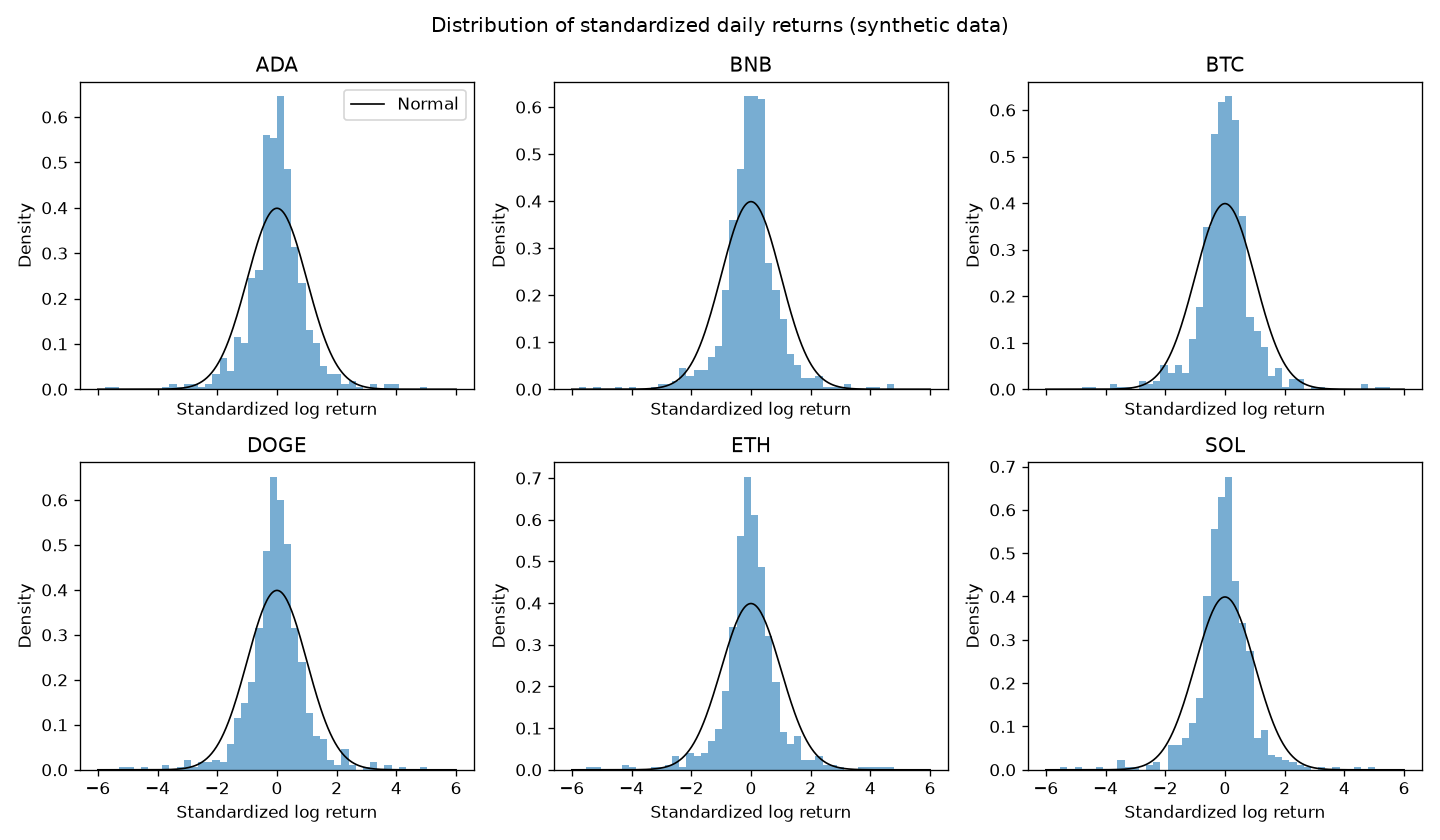
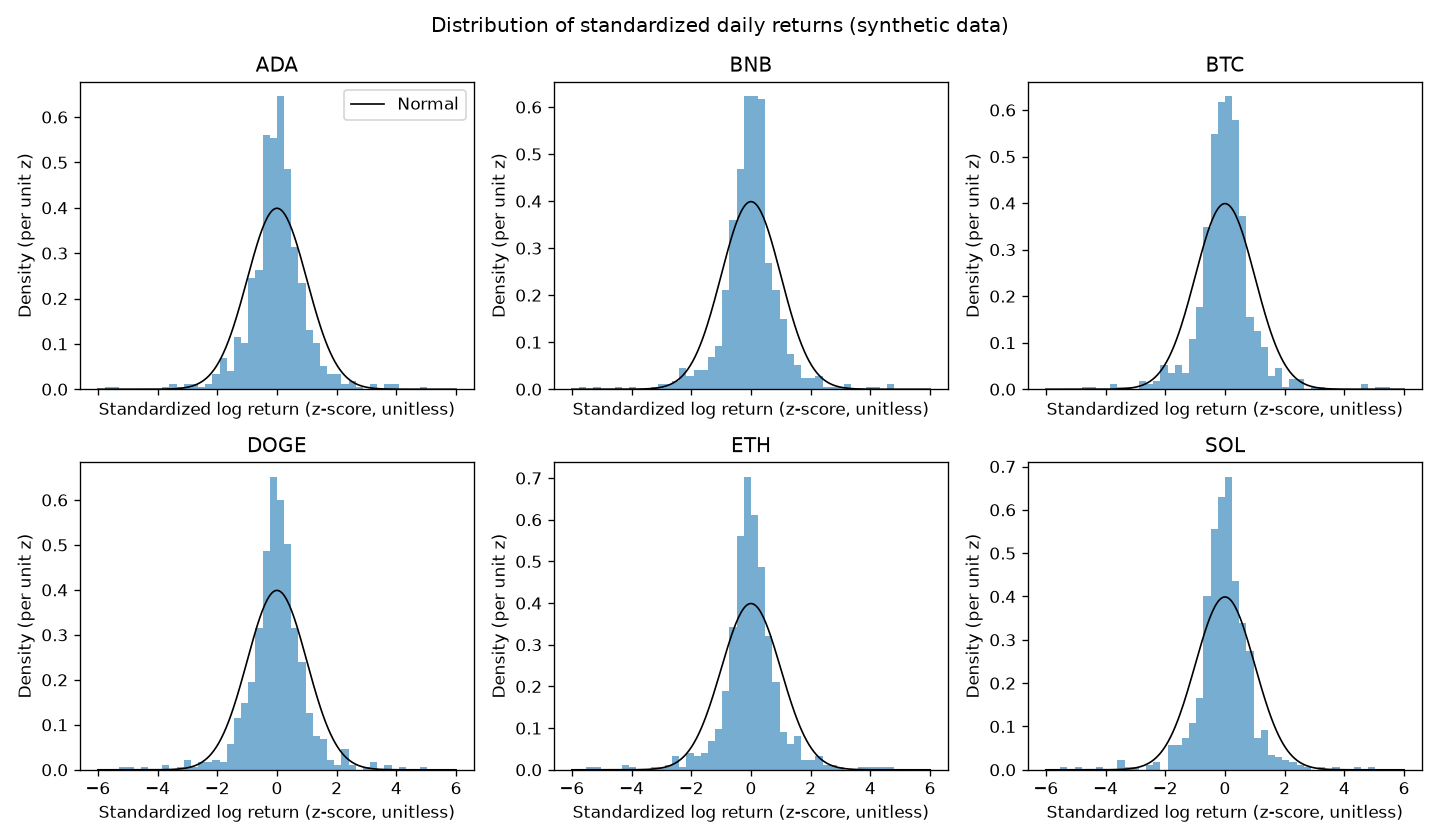
crypto-volatility-analysis: Improve EDA chart titles, units and axis labels

diff --git a/crypto-volatility-analysis/src/eda.py b/crypto-volatility-analysis/src/eda.py
@@ -19,6 +19,7 @@ import matplotlib.pyplot as plt
 import numpy as np
 import pandas as pd
 import seaborn as sns
+from matplotlib.ticker import PercentFormatter
 from scipy import stats
 
 PROJECT_DIR = Path(__file__).resolve().parents[1]
@@ -133,9 +134,10 @@ def plot_normalized_prices(prices: pd.DataFrame) -> None:
     fig, ax = plt.subplots(figsize=(10, 5))
     rebased.plot(ax=ax)
     ax.set_yscale("log")
+    ax.grid(True, which="major", alpha=0.3)
     ax.set_title("Simulated prices rebased to 100 (log scale, synthetic data)")
     ax.set_xlabel("Date")
-    ax.set_ylabel("Rebased price (first day = 100)")
+    ax.set_ylabel("Rebased price index (first day = 100, log scale)")
     ax.legend(title="Asset")
     fig.tight_layout()
     fig.savefig(FIGURES_DIR / "prices_rebased.png", dpi=120)
@@ -153,8 +155,8 @@ def plot_return_distributions(prices: pd.DataFrame) -> None:
         ax.plot(grid, stats.norm.pdf(grid), color="black", lw=1,
                 label="Normal")
         ax.set_title(asset)
-        ax.set_xlabel("Standardized log return")
-        ax.set_ylabel("Density")
+        ax.set_xlabel("Standardized log return (z-score, unitless)")
+        ax.set_ylabel("Density (per unit z)")
     axes[0, 0].legend()
     fig.suptitle("Distribution of standardized daily returns (synthetic data)")
     fig.tight_layout()
@@ -167,7 +169,7 @@ def plot_rolling_volatility(prices: pd.DataFrame, regimes: pd.DataFrame) -> None
     wide = prices.pivot(index="date", columns="asset", values="log_return")
     rolling = wide.rolling(ROLLING_WINDOW).std() * np.sqrt(DAYS_PER_YEAR)
 
-    fig, ax = plt.subplots(figsize=(10, 5))
+    fig, ax = plt.subplots(figsize=(10, 5.5))
     rolling.plot(ax=ax)
 
     # Shade turbulent days (one-day-wide spans, merged visually)
@@ -175,10 +177,14 @@ def plot_rolling_volatility(prices: pd.DataFrame, regimes: pd.DataFrame) -> None
     for d in turbulent:
         ax.axvspan(d, d + pd.Timedelta(days=1), color="red", alpha=0.08, lw=0)
 
-    ax.set_title(f"{ROLLING_WINDOW}-day rolling annualized volatility "
-                 "(red = turbulent days, synthetic data)")
+    # Two-line title so it is not cut off at this figure width
+    ax.set_title(f"{ROLLING_WINDOW}-day rolling annualized volatility\n"
+                 "(red shading = turbulent days, synthetic data)")
     ax.set_xlabel("Date")
-    ax.set_ylabel("Annualized volatility")
+    # Ticks are shown in percent of annual volatility (0.5 -> 50%)
+    ax.set_ylabel("Annualized volatility (%)")
+    ax.yaxis.set_major_formatter(PercentFormatter(xmax=1.0, decimals=0))
+    ax.grid(True, alpha=0.3)
     ax.legend(title="Asset", ncol=2)
     fig.tight_layout()
     fig.savefig(FIGURES_DIR / "rolling_volatility.png", dpi=120)
@@ -189,8 +195,11 @@ def plot_correlation_heatmap(corr: pd.DataFrame) -> None:
     """Chart 4: heatmap of the return correlation matrix."""
     fig, ax = plt.subplots(figsize=(6.5, 5.5))
     sns.heatmap(corr, annot=True, fmt=".2f", cmap="coolwarm",
-                vmin=-1, vmax=1, square=True, ax=ax)
+                vmin=-1, vmax=1, square=True, ax=ax,
+                cbar_kws={"label": "Correlation coefficient (-1 to 1)"})
     ax.set_title("Correlation of daily log returns (synthetic data)")
+    ax.set_xlabel("Asset")
+    ax.set_ylabel("Asset")
     fig.tight_layout()
     fig.savefig(FIGURES_DIR / "return_correlation.png", dpi=120)
     plt.close(fig)
